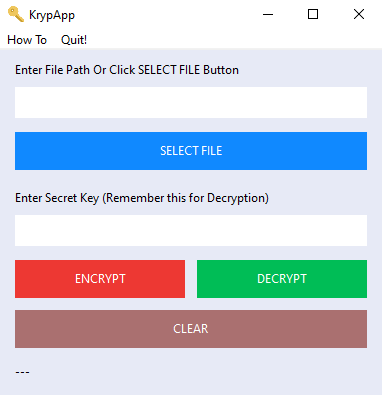
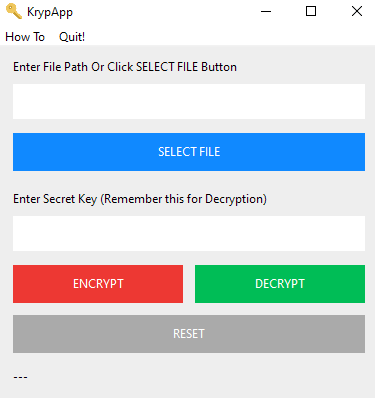
v1.3
encrypt/decrypt file in chunks. this prevents uncompleted jobs. the program still might stall but completes the job contrary to prev version where it would stall and won't do the job as well

diff --git a/KrypApp.py b/KrypApp.py
@@ -35,13 +35,26 @@ class EncryptionTool:
         self.encrypt_output_file = ".".join(self.user_file.split(".")[:-1]) + "." + self.file_extension + ".kryp"
 
         # decrypted file name
-        self.decrypt_output_file = self.user_file[:-5]
+        self.decrypt_output_file = self.user_file[:-5].split(".")
+        self.decrypt_output_file = ".".join(self.decrypt_output_file[:-1]) \
+            + "__dekrypted__." + self.decrypt_output_file[-1]
 
         # dictionary to store hashed key and salt
         self.hashed_key_salt = dict()
 
         # hash key and salt into 16 bit hashes
         self.hash_key_salt()
+
+    def read_in_chunks(self, file_object, chunk_size=1024):
+        """Lazy function (generator) to read a file piece by piece.
+        Default chunk size: 1k.
+        Code Courtesy: https://stackoverflow.com/questions/519633/lazy-method-for-reading-big-file-in-python
+        """
+        while True:
+            data = file_object.read(chunk_size)
+            if not data:
+                break
+            yield data
 
     def encrypt(self):
         # create a cipher object
@@ -51,16 +64,15 @@ class EncryptionTool:
             self.hashed_key_salt["salt"]
         )
 
-        # read content of file
-        with open(self.user_file, "rb") as f:
-            content = f.read()
+        input_file = open(self.user_file, "rb")
+        output_file = open(self.encrypt_output_file, "ab")
 
-        # encrypt the file contents
-        encrypted_content = cipher_object.encrypt(content)
-
-        #  write the encrypted content to output file
-        with open(self.encrypt_output_file, "wb") as g:
-            g.write(encrypted_content)
+        for piece in self.read_in_chunks(input_file):
+            encrypted_content = cipher_object.encrypt(piece)
+            output_file.write(encrypted_content)
+        
+        input_file.close()
+        output_file.close()
 
         # clean up the cipher object
         del cipher_object
@@ -73,16 +85,15 @@ class EncryptionTool:
             self.hashed_key_salt["salt"]
         )
 
-        # read content of file
-        with open(self.user_file, "rb") as f:
-            content = f.read()
+        input_file = open(self.user_file, "rb")
+        output_file = open(self.decrypt_output_file, "xb")
 
-        # decrypt the file contents
-        decrypted_content = cipher_object.decrypt(content)
-
-        #  write the decrypted content to output file
-        with open(self.decrypt_output_file, "wb") as g:
-            g.write(decrypted_content)
+        for piece in self.read_in_chunks(input_file):
+            decrypted_content = cipher_object.decrypt(piece)
+            output_file.write(decrypted_content)
+        
+        input_file.close()
+        output_file.close()
 
         # clean up the cipher object
         del cipher_object
@@ -133,7 +144,7 @@ class MainWindow:
         self._status.set("---")
 
         root.title("KrypApp")
-        root.configure(bg="#e7eaf6")
+        root.configure(bg="#eeeeee")
 
         try:
             icon_img = tk.Image(
@@ -152,7 +163,7 @@ class MainWindow:
 
         self.menu_bar = tk.Menu(
             root,
-            bg="#e7eaf6",
+            bg="#eeeeee",
             relief=tk.FLAT
         )
         self.menu_bar.add_command(
@@ -171,7 +182,7 @@ class MainWindow:
         self.file_entry_label = tk.Label(
             root,
             text="Enter File Path Or Click SELECT FILE Button",
-            bg="#e7eaf6",
+            bg="#eeeeee",
             anchor=tk.W
         )
         self.file_entry_label.grid(
@@ -196,7 +207,7 @@ class MainWindow:
             padx=15,
             pady=6,
             ipadx=8,
-            ipady=6,
+            ipady=8,
             row=1,
             column=0,
             columnspan=4,
@@ -227,7 +238,7 @@ class MainWindow:
         self.key_entry_label = tk.Label(
             root,
             text="Enter Secret Key (Remember this for Decryption)",
-            bg="#e7eaf6",
+            bg="#eeeeee",
             anchor=tk.W
         )
         self.key_entry_label.grid(
@@ -252,48 +263,13 @@ class MainWindow:
             padx=15,
             pady=6,
             ipadx=8,
-            ipady=6,
+            ipady=8,
             row=4,
             column=0,
             columnspan=4,
             sticky=tk.W+tk.E+tk.N+tk.S
         )
 
-        # self.salt_entry_label = tk.Label(
-        #     root,
-        #     text="Enter Salt",
-        #     bg="#e7eaf6",
-        #     anchor=tk.W
-        # )
-        # self.salt_entry_label.grid(
-        #     padx=12,
-        #     pady=(6, 0),
-        #     ipadx=0,
-        #     ipady=1,
-        #     row=5,
-        #     column=0,
-        #     columnspan=4,
-        #     sticky=tk.W+tk.E+tk.N+tk.S
-        # )
-
-        # self.salt_entry = tk.Entry(
-        #     root,
-        #     textvariable=self._salt,
-        #     bg="#fff",
-        #     exportselection=0,
-        #     relief=tk.FLAT
-        # )
-        # self.salt_entry.grid(
-        #     padx=15,
-        #     pady=6,
-        #     ipadx=8,
-        #     ipady=6,
-        #     row=6,
-        #     column=0,
-        #     columnspan=4,
-        #     sticky=tk.W+tk.E+tk.N+tk.S
-        # )
-        
         self.encrypt_btn = tk.Button(
             root,
             text="ENCRYPT",
@@ -336,9 +312,9 @@ class MainWindow:
 
         self.clear_btn = tk.Button(
             root,
-            text="CLEAR",
+            text="RESET",
             command=self.clear_callback,
-            bg="#aa7070",
+            bg="#aaaaaa",
             fg="#ffffff",
             bd=2,
             relief=tk.FLAT
@@ -357,7 +333,7 @@ class MainWindow:
         self.status_label = tk.Label(
             root,
             textvariable=self._status,
-            bg="#e7eaf6",
+            bg="#eeeeee",
             anchor=tk.W,
             justify=tk.LEFT,
             relief=tk.FLAT,

diff --git a/setup.py b/setup.py
@@ -16,7 +16,7 @@ if sys.platform == "win32":
 
 setup(
     name="KrypApp",
-    version="1.2",
+    version="1.3",
     description="File Encryption App",
     options={
         "build_exe": {
